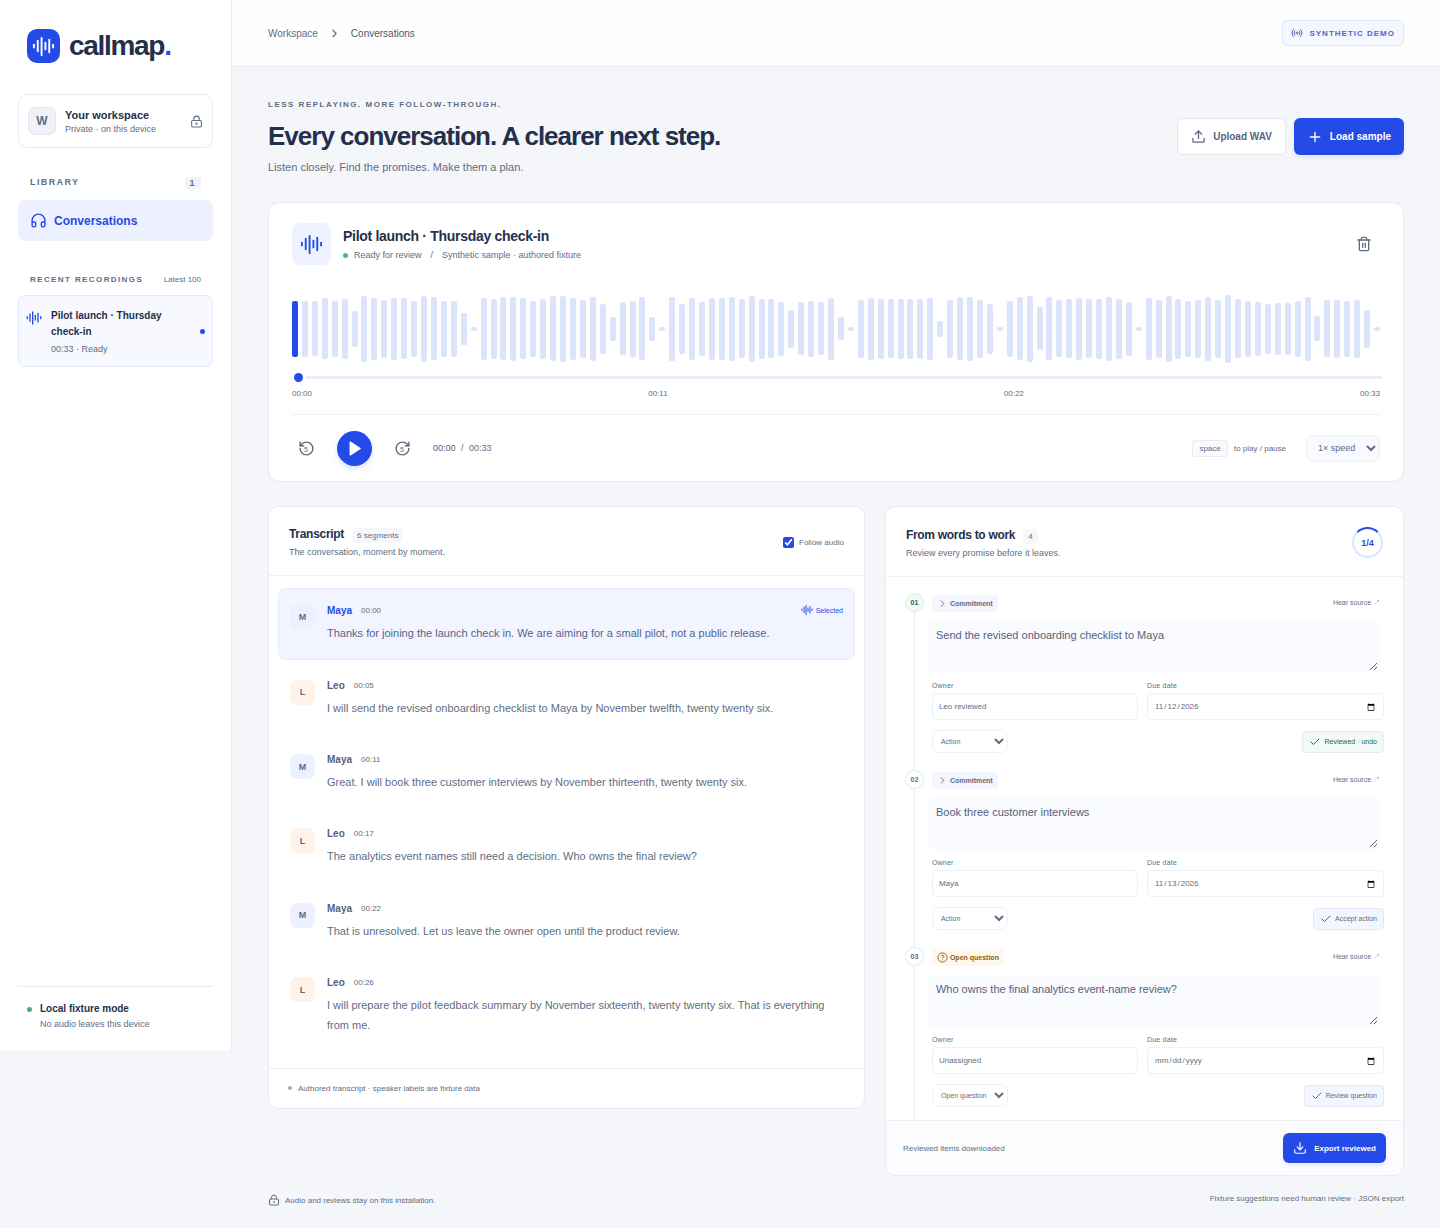
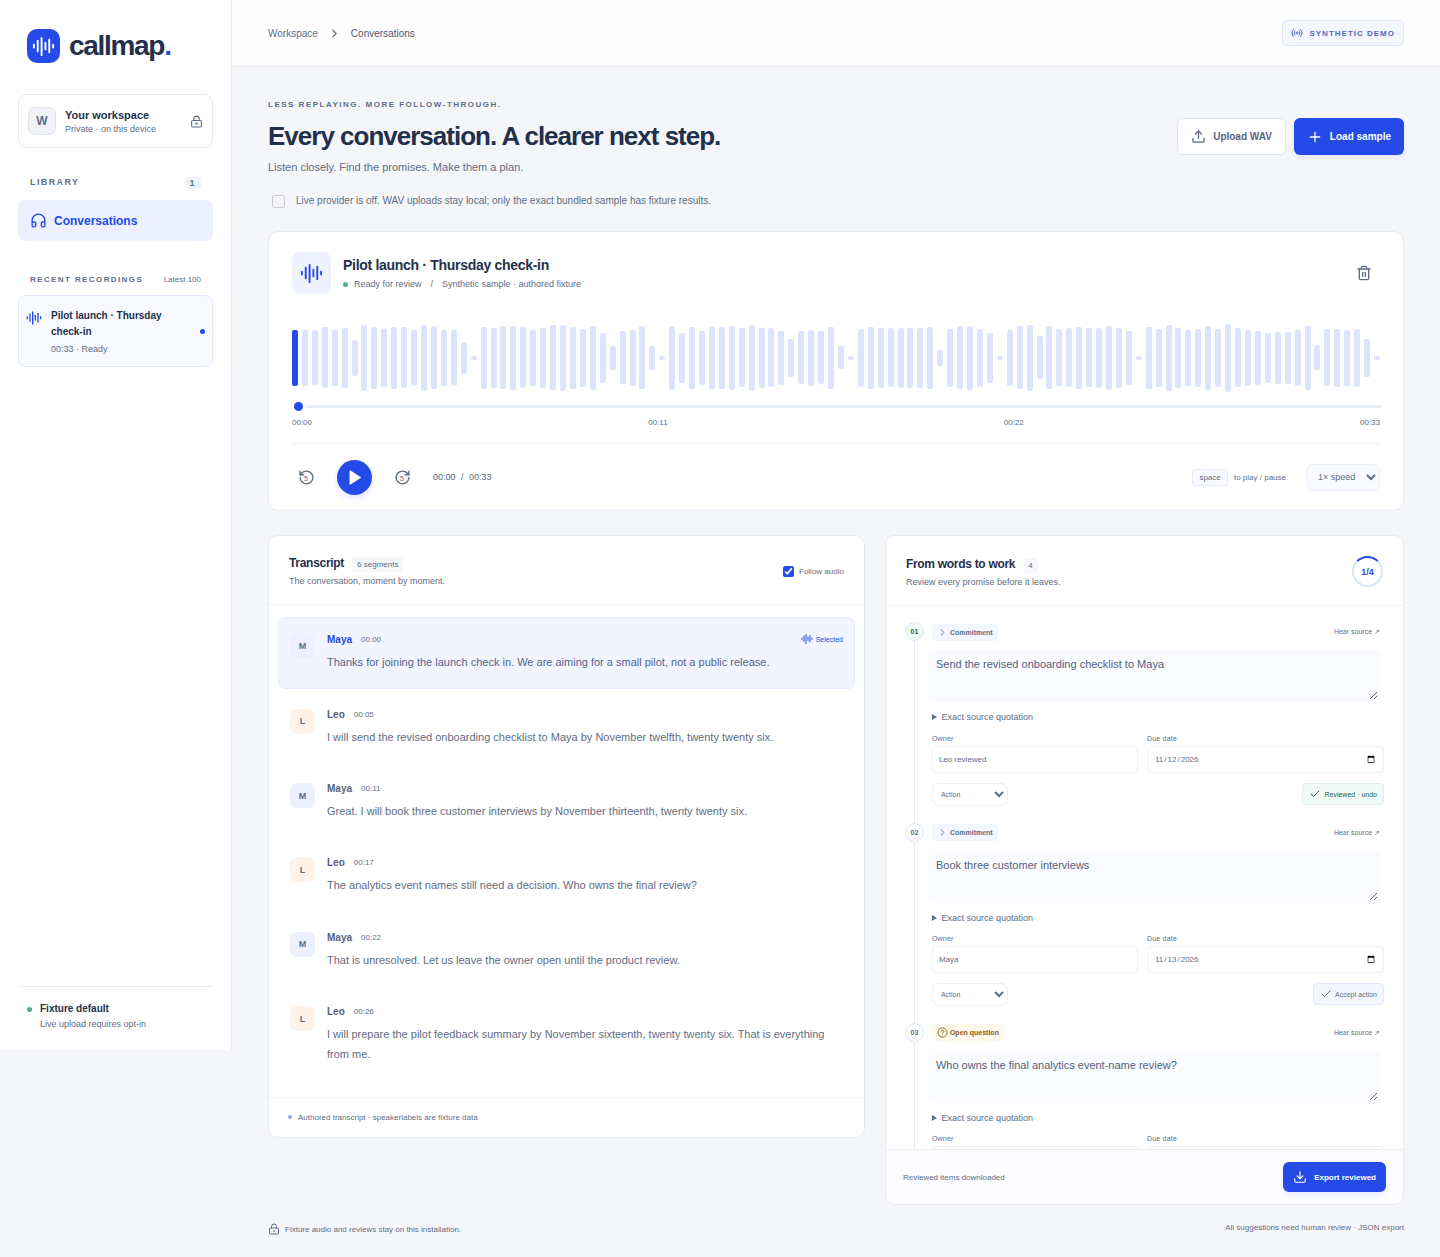
Record real integration results and verify source quotations in browser

diff --git a/docs/verification.md b/docs/verification.md
@@ -13,17 +13,19 @@ The local fixture workflow and optional Gemini adapter are implemented. **Live c
 
 ## PostgreSQL integration boundary
 
-Local Docker is unavailable: its backend fails to resize Docker.raw with permission denied. No Docker disk, user volume, or alternate database runtime was changed. Consequently **the updated integration suite was not executed locally in this pass**.
+At the initial resume, local Docker was unavailable because its backend could not resize Docker.raw. No Docker disk or user volume was changed. Consequently **the updated integration suite was not executed locally in that offline pass**; the later remote result and restored local startup are recorded below.
 
-The existing GitHub Actions workflow runs `pytest api/tests` against dedicated PostgreSQL 17.5/Redis 7.4.3 services and `callmap_test`. It discovers all ten integration cases plus the offline provider/evaluation tests; no live key/call is needed. Remote results must be checked separately after push.
+The GitHub Actions workflow runs `pytest api/tests` against dedicated PostgreSQL 17.5/Redis 7.4.3 services and `callmap_test`. [Run 42222213675](https://github.com/abdulrehmanawan99/callmap/actions/runs/42222213675) passed **all 50 tests**, including all ten integration cases and the offline provider/evaluation checks. No live key/call was used. The current PR checks remain the source for later commit results.
 
-Integration assertions cover upload/auth/origin/object boundaries; real fixture worker/restart; review version conflicts and reviewed-only export; cancellation and deletion; mocked live pipeline provenance; cancellation during transcription; sanitized extraction failure; deletion during extraction; interrupted live jobs fail without replay; removal of a private upload when its database insertion fails; and a four-case real-DB regression for stale transcription/extraction success/failure against a newer attempt with identical status. These new database assertions remain unexecuted locally. They truncate only a configured database ending in `_test`, use temporary audio, and stop their worker subprocesses.
+Integration assertions cover upload/auth/origin/object boundaries; real fixture worker/restart; review version conflicts and reviewed-only export; cancellation and deletion; mocked live pipeline provenance; cancellation during transcription; sanitized extraction failure; deletion during extraction; interrupted live jobs fail without replay; removal of a private upload when its database insertion fails; and a four-case real-DB regression for stale transcription/extraction success/failure against a newer attempt with identical status. These passed on the isolated CI database. Tests truncate only a configured database ending in `_test`, use temporary audio, and stop their worker subprocesses.
+
+After Docker connectivity was restored, the existing source launcher was started against a fresh local CallMap database; UI 5175 and API 8012 returned HTTP 200. Previous Docker volumes were absent from the repaired engine; old filesystem artifacts were not deleted or treated as restored database records.
 
 ## Prior fixture evidence
 
 On 5 November the previous fixture milestone recorded **9 passed** using real local PostgreSQL/Redis and a real worker, plus a successful frontend build and dependency audits. The 33.8-second mono 22.05 kHz 16-bit WAV was generated using macOS `say`/`afconvert`; its authored manifest is fingerprint gated.
 
-The coordinator previously verified playback/seek, review save/reload, reviewed JSON download, deletion, no JavaScript errors, and no overflow at 390 px. After contrast fixes, desktop/mobile axe WCAG 2 A/AA + 2.1 AA scans reported zero violations. Existing screenshots in `docs/screenshots/` reflect that fixture UI. **The later opt-in/source-evidence/retry additions have passed compilation, but have not received a fresh browser/axe pass here.** Automated axe is not a full accessibility audit.
+The revised interface received a fresh real-persistence Chromium workflow in the CI run above: sample playback/seek, disabled unconfigured live-provider opt-in, review save/reload, reviewed-only JSON download with fixture provenance, and deletion passed without JavaScript errors or document overflow. Desktop and 390 px mobile axe WCAG 2 A/AA + 2.1 AA scans reported **zero violations**. Actual screenshots in `docs/screenshots/` were refreshed from that CI artifact and visually inspected. The browser script now also checks opening the exact source quotation. The enabled live-provider UI/model path still needs credentials and actual acceptance. Automated axe is not a full accessibility audit.
 
 ## Remaining acceptance work
 
